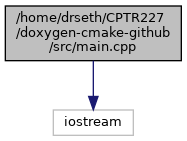
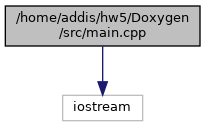
Initial commit

Changed region(s): [[0.0, 0.0236, 0.9893, 0.9685]]

diff --git a/docs/main_8cpp.html b/docs/main_8cpp.html
@@ -5,7 +5,7 @@
 <meta http-equiv="X-UA-Compatible" content="IE=9"/>
 <meta name="generator" content="Doxygen 1.8.17"/>
 <meta name="viewport" content="width=device-width, initial-scale=1"/>
-<title>aardvark: /home/drseth/CPTR227/doxygen-cmake-github/src/main.cpp File Reference</title>
+<title>AddisHW5: /home/addis/hw5/Doxygen/src/main.cpp File Reference</title>
 <link href="tabs.css" rel="stylesheet" type="text/css"/>
 <script type="text/javascript" src="jquery.js"></script>
 <script type="text/javascript" src="dynsections.js"></script>
@@ -21,8 +21,8 @@
  <tbody>
  <tr style="height: 56px;">
   <td id="projectalign" style="padding-left: 0.5em;">
-   <div id="projectname">aardvark
-   &#160;<span id="projectnumber">0.3.0</span>
+   <div id="projectname">AddisHW5
+   &#160;<span id="projectnumber">0.0.1</span>
    </div>
   </td>
  </tr>
@@ -73,16 +73,16 @@ $(function() {
 </div><!--header-->
 <div class="contents">
 
-<p>This is a test of CMake, doxygen, and GitHub.  
+<p>This is a addis testing CMake, doxygen, and GitHub.  
 <a href="#details">More...</a></p>
 <div class="textblock"><code>#include &lt;iostream&gt;</code><br />
 </div><div class="textblock"><div class="dynheader">
 Include dependency graph for main.cpp:</div>
 <div class="dyncontent">
-<div class="center"><img src="main_8cpp__incl.png" border="0" usemap="#_2home_2drseth_2CPTR227_2doxygen-cmake-github_2src_2main_8cpp" alt=""/></div>
-<map name="_2home_2drseth_2CPTR227_2doxygen-cmake-github_2src_2main_8cpp" id="_2home_2drseth_2CPTR227_2doxygen-cmake-github_2src_2main_8cpp">
-<area shape="rect" title="This is a test of CMake, doxygen, and GitHub." alt="" coords="5,5,181,61"/>
-<area shape="rect" title=" " alt="" coords="53,109,133,136"/>
+<div class="center"><img src="main_8cpp__incl.png" border="0" usemap="#_2home_2addis_2hw5_2Doxygen_2src_2main_8cpp" alt=""/></div>
+<map name="_2home_2addis_2hw5_2Doxygen_2src_2main_8cpp" id="_2home_2addis_2hw5_2Doxygen_2src_2main_8cpp">
+<area shape="rect" title="This is a addis testing CMake, doxygen, and GitHub." alt="" coords="5,5,200,47"/>
+<area shape="rect" title=" " alt="" coords="63,95,143,121"/>
 </map>
 </div>
 </div>
@@ -96,9 +96,9 @@ Functions</h2></td></tr>
 <tr class="separator:a2c3f6775325c30275d11c6abee2db6a0"><td class="memSeparator" colspan="2">&#160;</td></tr>
 </table>
 <a name="details" id="details"></a><h2 class="groupheader">Detailed Description</h2>
-<div class="textblock"><p>This is a test of CMake, doxygen, and GitHub. </p>
-<p>This is the long brief at the top of <a class="el" href="main_8cpp.html" title="This is a test of CMake, doxygen, and GitHub.">main.cpp</a>. </p><dl class="section author"><dt>Author</dt><dd>Seth McNeill </dd></dl>
-<dl class="section date"><dt>Date</dt><dd>1/28/2021 </dd></dl>
+<div class="textblock"><p>This is a addis testing CMake, doxygen, and GitHub. </p>
+<p>This documentation method will be used to pubish &amp; document projects straight form VScode. </p><dl class="section author"><dt>Author</dt><dd>Addis Bogale </dd></dl>
+<dl class="section date"><dt>Date</dt><dd>1/31/2021 </dd></dl>
 
 <p class="definition">Definition in file <a class="el" href="main_8cpp_source.html">main.cpp</a>.</p>
 </div><h2 class="groupheader">Function Documentation</h2>

diff --git a/docs/files.html b/docs/files.html
@@ -5,7 +5,7 @@
 <meta http-equiv="X-UA-Compatible" content="IE=9"/>
 <meta name="generator" content="Doxygen 1.8.17"/>
 <meta name="viewport" content="width=device-width, initial-scale=1"/>
-<title>aardvark: File List</title>
+<title>AddisHW5: File List</title>
 <link href="tabs.css" rel="stylesheet" type="text/css"/>
 <script type="text/javascript" src="jquery.js"></script>
 <script type="text/javascript" src="dynsections.js"></script>
@@ -21,8 +21,8 @@
  <tbody>
  <tr style="height: 56px;">
   <td id="projectalign" style="padding-left: 0.5em;">
-   <div id="projectname">aardvark
-   &#160;<span id="projectnumber">0.3.0</span>
+   <div id="projectname">AddisHW5
+   &#160;<span id="projectnumber">0.0.1</span>
    </div>
   </td>
  </tr>
@@ -69,7 +69,7 @@ $(function() {
 <div class="textblock">Here is a list of all files with brief descriptions:</div><div class="directory">
 <div class="levels">[detail level <span onclick="javascript:toggleLevel(1);">1</span><span onclick="javascript:toggleLevel(2);">2</span>]</div><table class="directory">
 <tr id="row_0_" class="even"><td class="entry"><span style="width:0px;display:inline-block;">&#160;</span><span id="arr_0_" class="arrow" onclick="toggleFolder('0_')">&#9660;</span><span id="img_0_" class="iconfopen" onclick="toggleFolder('0_')">&#160;</span><a class="el" href="dir_68267d1309a1af8e8297ef4c3efbcdba.html" target="_self">src</a></td><td class="desc"></td></tr>
-<tr id="row_0_0_"><td class="entry"><span style="width:32px;display:inline-block;">&#160;</span><a href="main_8cpp_source.html"><span class="icondoc"></span></a><a class="el" href="main_8cpp.html" target="_self">main.cpp</a></td><td class="desc">This is a test of CMake, doxygen, and GitHub </td></tr>
+<tr id="row_0_0_"><td class="entry"><span style="width:32px;display:inline-block;">&#160;</span><a href="main_8cpp_source.html"><span class="icondoc"></span></a><a class="el" href="main_8cpp.html" target="_self">main.cpp</a></td><td class="desc">This is a addis testing CMake, doxygen, and GitHub </td></tr>
 </table>
 </div><!-- directory -->
 </div><!-- contents -->

diff --git a/docs/dir_68267d1309a1af8e8297ef4c3efbcdba.html b/docs/dir_68267d1309a1af8e8297ef4c3efbcdba.html
@@ -5,7 +5,7 @@
 <meta http-equiv="X-UA-Compatible" content="IE=9"/>
 <meta name="generator" content="Doxygen 1.8.17"/>
 <meta name="viewport" content="width=device-width, initial-scale=1"/>
-<title>aardvark: /home/drseth/CPTR227/doxygen-cmake-github/src Directory Reference</title>
+<title>AddisHW5: /home/addis/hw5/Doxygen/src Directory Reference</title>
 <link href="tabs.css" rel="stylesheet" type="text/css"/>
 <script type="text/javascript" src="jquery.js"></script>
 <script type="text/javascript" src="dynsections.js"></script>
@@ -21,8 +21,8 @@
  <tbody>
  <tr style="height: 56px;">
   <td id="projectalign" style="padding-left: 0.5em;">
-   <div id="projectname">aardvark
-   &#160;<span id="projectnumber">0.3.0</span>
+   <div id="projectname">AddisHW5
+   &#160;<span id="projectnumber">0.0.1</span>
    </div>
   </td>
  </tr>
@@ -74,7 +74,7 @@ $(function() {
 <tr class="heading"><td colspan="2"><h2 class="groupheader"><a name="files"></a>
 Files</h2></td></tr>
 <tr class="memitem:main_8cpp"><td class="memItemLeft" align="right" valign="top">file &#160;</td><td class="memItemRight" valign="bottom"><a class="el" href="main_8cpp.html">main.cpp</a> <a href="main_8cpp_source.html">[code]</a></td></tr>
-<tr class="memdesc:main_8cpp"><td class="mdescLeft">&#160;</td><td class="mdescRight">This is a test of CMake, doxygen, and GitHub. <br /></td></tr>
+<tr class="memdesc:main_8cpp"><td class="mdescLeft">&#160;</td><td class="mdescRight">This is a addis testing CMake, doxygen, and GitHub. <br /></td></tr>
 <tr class="separator:"><td class="memSeparator" colspan="2">&#160;</td></tr>
 </table>
 </div><!-- contents -->

diff --git a/docs/index.html b/docs/index.html
@@ -5,7 +5,7 @@
 <meta http-equiv="X-UA-Compatible" content="IE=9"/>
 <meta name="generator" content="Doxygen 1.8.17"/>
 <meta name="viewport" content="width=device-width, initial-scale=1"/>
-<title>aardvark: Main Page</title>
+<title>AddisHW5: Main Page</title>
 <link href="tabs.css" rel="stylesheet" type="text/css"/>
 <script type="text/javascript" src="jquery.js"></script>
 <script type="text/javascript" src="dynsections.js"></script>
@@ -21,8 +21,8 @@
  <tbody>
  <tr style="height: 56px;">
   <td id="projectalign" style="padding-left: 0.5em;">
-   <div id="projectname">aardvark
-   &#160;<span id="projectnumber">0.3.0</span>
+   <div id="projectname">AddisHW5
+   &#160;<span id="projectnumber">0.0.1</span>
    </div>
   </td>
  </tr>
@@ -63,7 +63,7 @@ $(function() {
 
 <div class="header">
   <div class="headertitle">
-<div class="title">aardvark Documentation</div>  </div>
+<div class="title">AddisHW5 Documentation</div>  </div>
 </div><!--header-->
 <div class="contents">
 </div><!-- contents -->

diff --git a/docs/main_8cpp_source.html b/docs/main_8cpp_source.html
@@ -5,7 +5,7 @@
 <meta http-equiv="X-UA-Compatible" content="IE=9"/>
 <meta name="generator" content="Doxygen 1.8.17"/>
 <meta name="viewport" content="width=device-width, initial-scale=1"/>
-<title>aardvark: /home/drseth/CPTR227/doxygen-cmake-github/src/main.cpp Source File</title>
+<title>AddisHW5: /home/addis/hw5/Doxygen/src/main.cpp Source File</title>
 <link href="tabs.css" rel="stylesheet" type="text/css"/>
 <script type="text/javascript" src="jquery.js"></script>
 <script type="text/javascript" src="dynsections.js"></script>
@@ -21,8 +21,8 @@
  <tbody>
  <tr style="height: 56px;">
   <td id="projectalign" style="padding-left: 0.5em;">
-   <div id="projectname">aardvark
-   &#160;<span id="projectnumber">0.3.0</span>
+   <div id="projectname">AddisHW5
+   &#160;<span id="projectnumber">0.0.1</span>
    </div>
   </td>
  </tr>

diff --git a/docs/globals.html b/docs/globals.html
@@ -5,7 +5,7 @@
 <meta http-equiv="X-UA-Compatible" content="IE=9"/>
 <meta name="generator" content="Doxygen 1.8.17"/>
 <meta name="viewport" content="width=device-width, initial-scale=1"/>
-<title>aardvark: File Members</title>
+<title>AddisHW5: File Members</title>
 <link href="tabs.css" rel="stylesheet" type="text/css"/>
 <script type="text/javascript" src="jquery.js"></script>
 <script type="text/javascript" src="dynsections.js"></script>
@@ -21,8 +21,8 @@
  <tbody>
  <tr style="height: 56px;">
   <td id="projectalign" style="padding-left: 0.5em;">
-   <div id="projectname">aardvark
-   &#160;<span id="projectnumber">0.3.0</span>
+   <div id="projectname">AddisHW5
+   &#160;<span id="projectnumber">0.0.1</span>
    </div>
   </td>
  </tr>

diff --git a/docs/globals_func.html b/docs/globals_func.html
@@ -5,7 +5,7 @@
 <meta http-equiv="X-UA-Compatible" content="IE=9"/>
 <meta name="generator" content="Doxygen 1.8.17"/>
 <meta name="viewport" content="width=device-width, initial-scale=1"/>
-<title>aardvark: File Members</title>
+<title>AddisHW5: File Members</title>
 <link href="tabs.css" rel="stylesheet" type="text/css"/>
 <script type="text/javascript" src="jquery.js"></script>
 <script type="text/javascript" src="dynsections.js"></script>
@@ -21,8 +21,8 @@
  <tbody>
  <tr style="height: 56px;">
   <td id="projectalign" style="padding-left: 0.5em;">
-   <div id="projectname">aardvark
-   &#160;<span id="projectnumber">0.3.0</span>
+   <div id="projectname">AddisHW5
+   &#160;<span id="projectnumber">0.0.1</span>
    </div>
   </td>
  </tr>

diff --git a/docs/graph_legend.html b/docs/graph_legend.html
@@ -5,7 +5,7 @@
 <meta http-equiv="X-UA-Compatible" content="IE=9"/>
 <meta name="generator" content="Doxygen 1.8.17"/>
 <meta name="viewport" content="width=device-width, initial-scale=1"/>
-<title>aardvark: Graph Legend</title>
+<title>AddisHW5: Graph Legend</title>
 <link href="tabs.css" rel="stylesheet" type="text/css"/>
 <script type="text/javascript" src="jquery.js"></script>
 <script type="text/javascript" src="dynsections.js"></script>
@@ -21,8 +21,8 @@
  <tbody>
  <tr style="height: 56px;">
   <td id="projectalign" style="padding-left: 0.5em;">
-   <div id="projectname">aardvark
-   &#160;<span id="projectnumber">0.3.0</span>
+   <div id="projectname">AddisHW5
+   &#160;<span id="projectnumber">0.0.1</span>
    </div>
   </td>
  </tr>

diff --git a/src/main.cpp b/src/main.cpp
@@ -1,9 +1,9 @@
 /**
  * @file main.cpp
- * @brief This is a test of CMake, doxygen, and GitHub.
- * @details This is the long brief at the top of main.cpp.
- * @author Seth McNeill
- * @date 1/28/2021
+ * @brief This is a addis testing CMake, doxygen, and GitHub.
+ * @details This documentation method will be used to pubish & document projects straight form VScode.
+ * @author Addis Bogale
+ * @date 1/31/2021
  * 
  */
 
